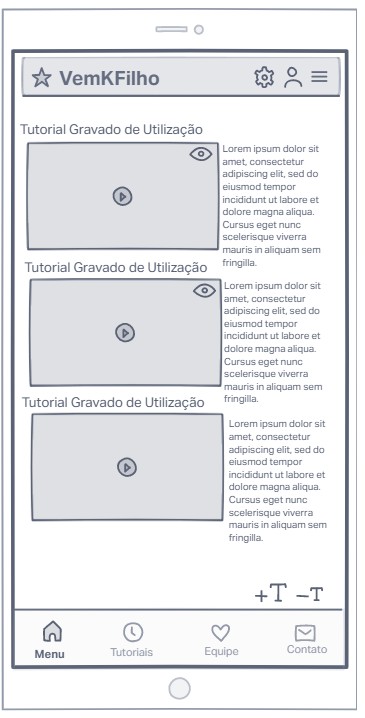
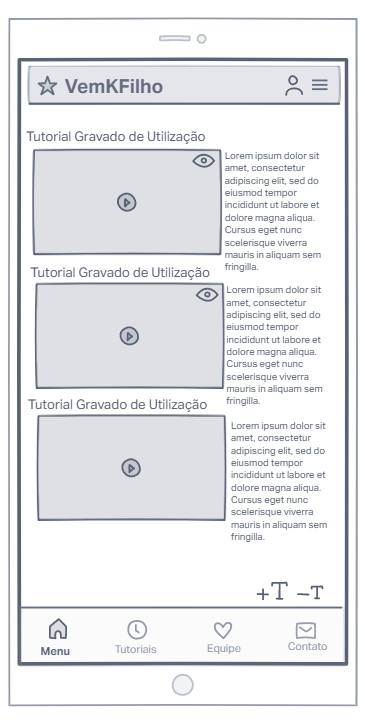
Relatorio TEcnico ate metologia atualizado, imagens adicionadas.

diff --git a/docs/relatorio/Relatório Tecnico.md b/docs/relatorio/Relatório Tecnico.md
@@ -144,15 +144,6 @@ O projeto está restrito pelos itens apresentados na tabela a seguir.
 |02| Deve ser desenvolvido em plataforma WEB        |
 |03| O sistema tem que |
 
-
-> Enumere as restrições à sua solução. Lembre-se de que as restrições
-> geralmente limitam a solução candidata.
-> 
-> **Links Úteis**:
-> - [O que são Requisitos Funcionais e Requisitos Não Funcionais?](https://codificar.com.br/requisitos-funcionais-nao-funcionais/)
-> - [O que são requisitos funcionais e requisitos não funcionais?](https://analisederequisitos.com.br/requisitos-funcionais-e-requisitos-nao-funcionais-o-que-sao/)
-
-
 # Projeto de Interface
 
  A Interface principal está representada abaixo: 
@@ -174,53 +165,30 @@ O projeto está restrito pelos itens apresentados na tabela a seguir.
 
   E por ultima na parte superior à direita possui o botão de login no qual é clicado redireciona para uma pagina para fazer o login.
 
-  
-  
+    
  ![Interface](imaages/../images/modelo_home_movel.png)
 
-> Apresente as principais interfaces da solução. Discuta como 
-> foram elaboradas de forma a atender os requisitos funcionais, não
-> funcionais e histórias de usuário abordados nas [Especificações do
-> Projeto](#especificações-do-projeto).
+ Aplicação não se difere da versão WEB, apenas reposicionando para que posso ser lida na tela do celular. No canto direito superior possui um menu vertical onde possui uma pequena lista dividindo as opções de tutoriais. 
+
 
 ## User Flow
 
-......  INCLUA AQUI O DIAGRAMA COM O FLUXO DO USUÁRIO NA APLICAÇÃO ......
+O digrama do User Flow:
 
-> Fluxo de usuário (User Flow) é uma técnica que permite ao desenvolvedor
-> mapear todo fluxo de telas do site ou app. Essa técnica funciona
-> para alinhar os caminhos e as possíveis ações que o usuário pode
-> fazer junto com os membros de sua equipe.
->
-> **Links Úteis**:
-> - [User Flow: O Quê É e Como Fazer?](https://medium.com/7bits/fluxo-de-usu%C3%A1rio-user-flow-o-que-%C3%A9-como-fazer-79d965872534)
-> - [User Flow vs Site Maps](http://designr.com.br/sitemap-e-user-flow-quais-as-diferencas-e-quando-usar-cada-um/)
-> - [Top 25 User Flow Tools & Templates for Smooth](https://www.mockplus.com/blog/post/user-flow-tools)
->
-> **Exemplo**:
-> 
-> ![Exemplo de UserFlow](images/userflow.jpg)
+Versão WEB:
 
+![User Flow WEB](imaages/../images/userflow_web.png)
+
+Versão Mobile:
+
+![User Flow Mobile](imaages/../images/userflow_mobile.png)
 
 ## Wireframes
+  Versão WEB:
+![Versão WEB](images/wireframe_web.png)
 
-......  INCLUA AQUI OS WIREFRAMES DAS TELAS DA APLICAÇÃO COM UM BREVE DESCRITIVO ......
-
-> Wireframes são protótipos das telas da aplicação usados em design de interface para sugerir a
-> estrutura de um site web e seu relacionamentos entre suas
-> páginas. Um wireframe web é uma ilustração semelhante ao
-> layout de elementos fundamentais na interface.
-> 
-> **Links Úteis**:
-> - [Ferramentas de Wireframes](https://rockcontent.com/blog/wireframes/)
-> - [Figma](https://www.figma.com/)
-> - [Adobe XD](https://www.adobe.com/br/products/xd.html#scroll)
-> - [MarvelApp](https://marvelapp.com/developers/documentation/tutorials/)
-> 
-> **Exemplo**:
-> 
-> ![Exemplo de Wireframe](images/wireframe-example.png)
-
+  Versão Mobile:
+![Versão Mobile](images/wireframe_mobile.png)
 
 # Metodologia
 
@@ -255,73 +223,29 @@ O projeto está restrito pelos itens apresentados na tabela a seguir.
 
 ## Ferramentas
 
-......  COLOQUE AQUI O SEU TEXTO - SIGA O EXEMPLO DA TABELA ABAIXO  ......
 
 | Ambiente  | Plataforma              |Link de Acesso |
 |-----------|-------------------------|---------------|
-|Processo de Design Thinkgin  | Miro |  https://miro.com/XXXXXXX | 
-|Repositório de código | GitHub | https://github.com/XXXXXXX | 
-|Hospedagem do site | Heroku |  https://XXXXXXX.herokuapp.com | 
-|Protótipo Interativo | MavelApp ou Figma | https://figma.com/XXXXXXX | 
-
->
-> Liste as ferramentas empregadas no desenvolvimento do
-> projeto, justificando a escolha delas, sempre que possível.
-> 
-> As ferramentas empregadas no projeto são:
-> 
-> - Editor de código.
-> - Ferramentas de comunicação
-> - Ferramentas de diagramação
-> - Plataforma de hospedagem
-> 
-> O editor de código foi escolhido porque ele possui uma integração com o
-> sistema de versão. As ferramentas de comunicação utilizadas possuem
-> integração semelhante e por isso foram selecionadas. Por fim, para criar
-> diagramas utilizamos essa ferramenta por melhor captar as
-> necessidades da nossa solução.
-> 
-> **Links Úteis - Hospedagem**:
-> - [Getting Started with Heroku](https://devcenter.heroku.com/start)
-> - [Crie seu Site com o HostGator](https://www.hostgator.com.br/como-publicar-seu-site)
-> - [GoDady](https://br.godaddy.com/how-to)
-> - [GitHub Pages](https://pages.github.com/)
+|Processo de Design Thinkgin  | Miro | [Miro](https://miro.com/app/board/uXjVOB6kp0I=/) | 
+|Repositório de código | GitHub | [GitHub](https://github.com/ICEI-PUC-Minas-PMGCC-TI/tiaw-pmg-cc-m-20221-tiaw-idoso-t2-g4) | 
+|Hospedagem do site | Replit | [Replit](https://tiaw-pmg-cc-m-20221-tiaw-idoso-t2-g4-1.andremateus.repl.co) | 
+|Protótipo Interativo | MavelApp ou Figma | [Figma](https://figma.com/XXXXXXX) | 
 
 ## Controle de Versão
 
-......  COLOQUE AQUI O SEU TEXTO ......
-
-> Discuta como a configuração do projeto foi feita na ferramenta de
-> versionamento escolhida. Exponha como a gerência de tags, merges,
-> commits e branchs é realizada. Discuta como a gerência de issues foi
-> realizada.
-> A ferramenta de controle de versão adotada no projeto foi o
-> [Git](https://git-scm.com/), sendo que o [Github](https://github.com)
-> foi utilizado para hospedagem do repositório `upstream`.
-> 
-> O projeto segue a seguinte convenção para o nome de branchs:
-> 
-> - `master`: versão estável já testada do software
-> - `unstable`: versão já testada do software, porém instável
-> - `testing`: versão em testes do software
-> - `dev`: versão de desenvolvimento do software
-> 
-> Quanto à gerência de issues, o projeto adota a seguinte convenção para
-> etiquetas:
-> 
-> - `bugfix`: uma funcionalidade encontra-se com problemas
-> - `enhancement`: uma funcionalidade precisa ser melhorada
-> - `feature`: uma nova funcionalidade precisa ser introduzida
->
-> **Links Úteis**:
-> - [Tutorial GitHub](https://guides.github.com/activities/hello-world/)
-> - [Git e Github](https://www.youtube.com/playlist?list=PLHz_AreHm4dm7ZULPAmadvNhH6vk9oNZA)
-> - [5 Git Workflows & Branching Strategy to deliver better code](https://zepel.io/blog/5-git-workflows-to-improve-development/)
->
-> **Exemplo - GitHub Feature Branch Workflow**:
->
-> ![Exemplo de Wireframe](images/Github-Workflow.png)
-
+O projeto segue a seguinte convenção para o nome de branchs:
+ 
+ - `master`: versão estável já testada do software
+ - `unstable`: versão já testada do software, porém instável
+ - `testing`: versão em testes do software
+ - `dev`: versão de desenvolvimento do software
+  Quanto à gerência de issues, o projeto adota a seguinte convenção para
+ etiquetas:
+ 
+ - `bugfix`: uma funcionalidade encontra-se com problemas
+ - `enhancement`: uma funcionalidade precisa ser melhorada
+ - `feature`: uma nova funcionalidade precisa ser introduzida
+   
 # **############## SPRINT 1 ACABA AQUI #############**
 
 
@@ -402,7 +326,10 @@ O projeto está restrito pelos itens apresentados na tabela a seguir.
 
 # Referências
 
-......  COLOQUE AQUI O SEU TEXTO ......
+[Educação inclusão Digital - Artigo](https://repositorio.ufsc.br/bitstream/handle/123456789/116872/Educa%C3%A7%C3%A3o%20%20INCLUS%C3%83O%20DIGITAL%20%E2%80%93%20INFORM%C3%81TICA%20TERCEIRA%20IDADE%20%281%29.pdf?sequence=1&isAllowed=yAcessado)
+
+[Potencialidade.com:
+Inclusão Digital e Transformação Social](https://portal.poa.ifsuldeminas.edu.br/images/2020/Agosto/13/Potencialidades.pdf)
 
 > Inclua todas as referências (livros, artigos, sites, etc) utilizados
 > no desenvolvimento do trabalho.

diff --git a/README.md b/README.md
@@ -4,15 +4,16 @@ Escreva um ou dois  parágrafo resumindo o objetivo do seu projeto.
 
 ## Alunos integrantes da equipe
 
-* André Mateus Fonseca Neves
-* Nome completo do aluno 2
-* Nome completo do aluno 3
-* Nome completo do aluno 4
+* André Luiz Baptista Esteves Bassini
+* André Mateus Fonseca Neves  
+* Antônio Victor Oliveira Gonçalves
+* Diego Ruas Toledo
+* Henrique de Almeida Diniz
 
 ## Professores responsáveis
 
-* Nome completo do professor 1
-* Nome completo do professor 2
+* Fernanda Farinelli
+* João Carlos Oliveira Caetano
 
 ## Instruções de utilização
 
